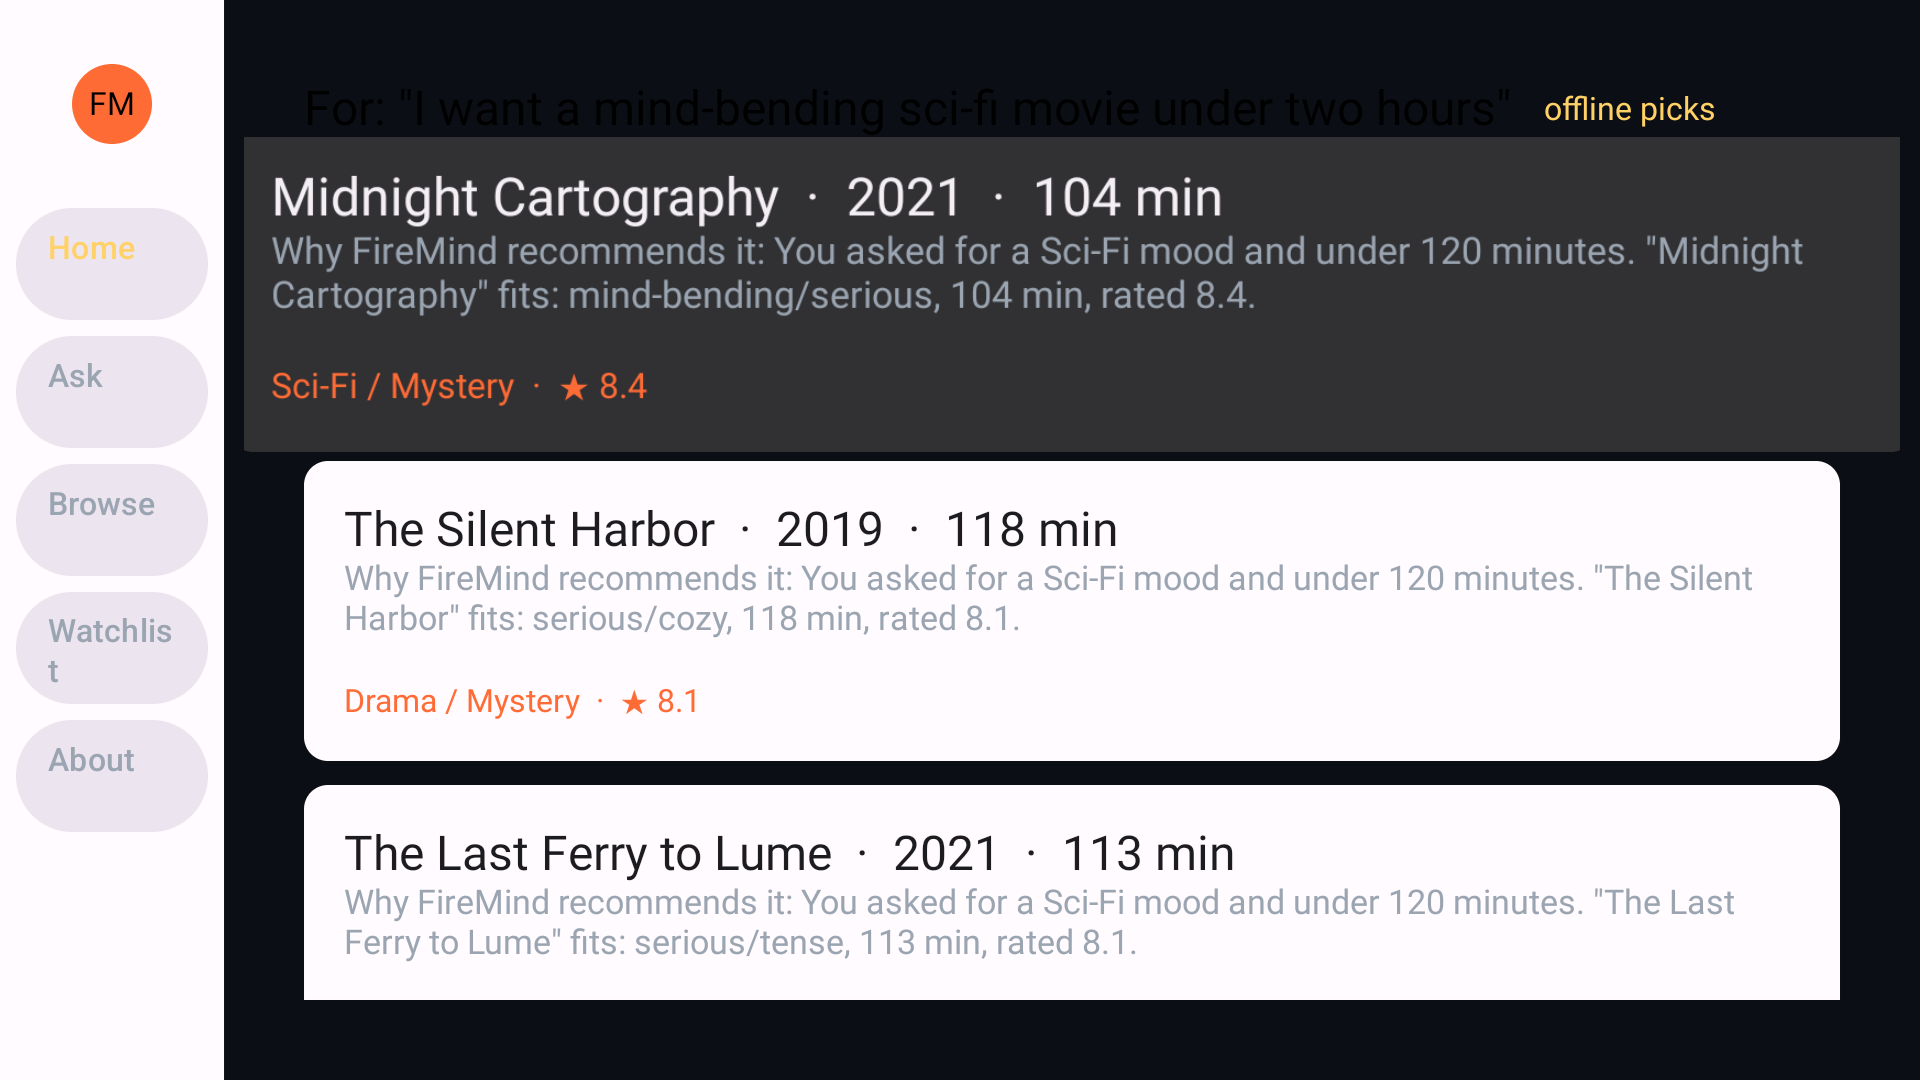
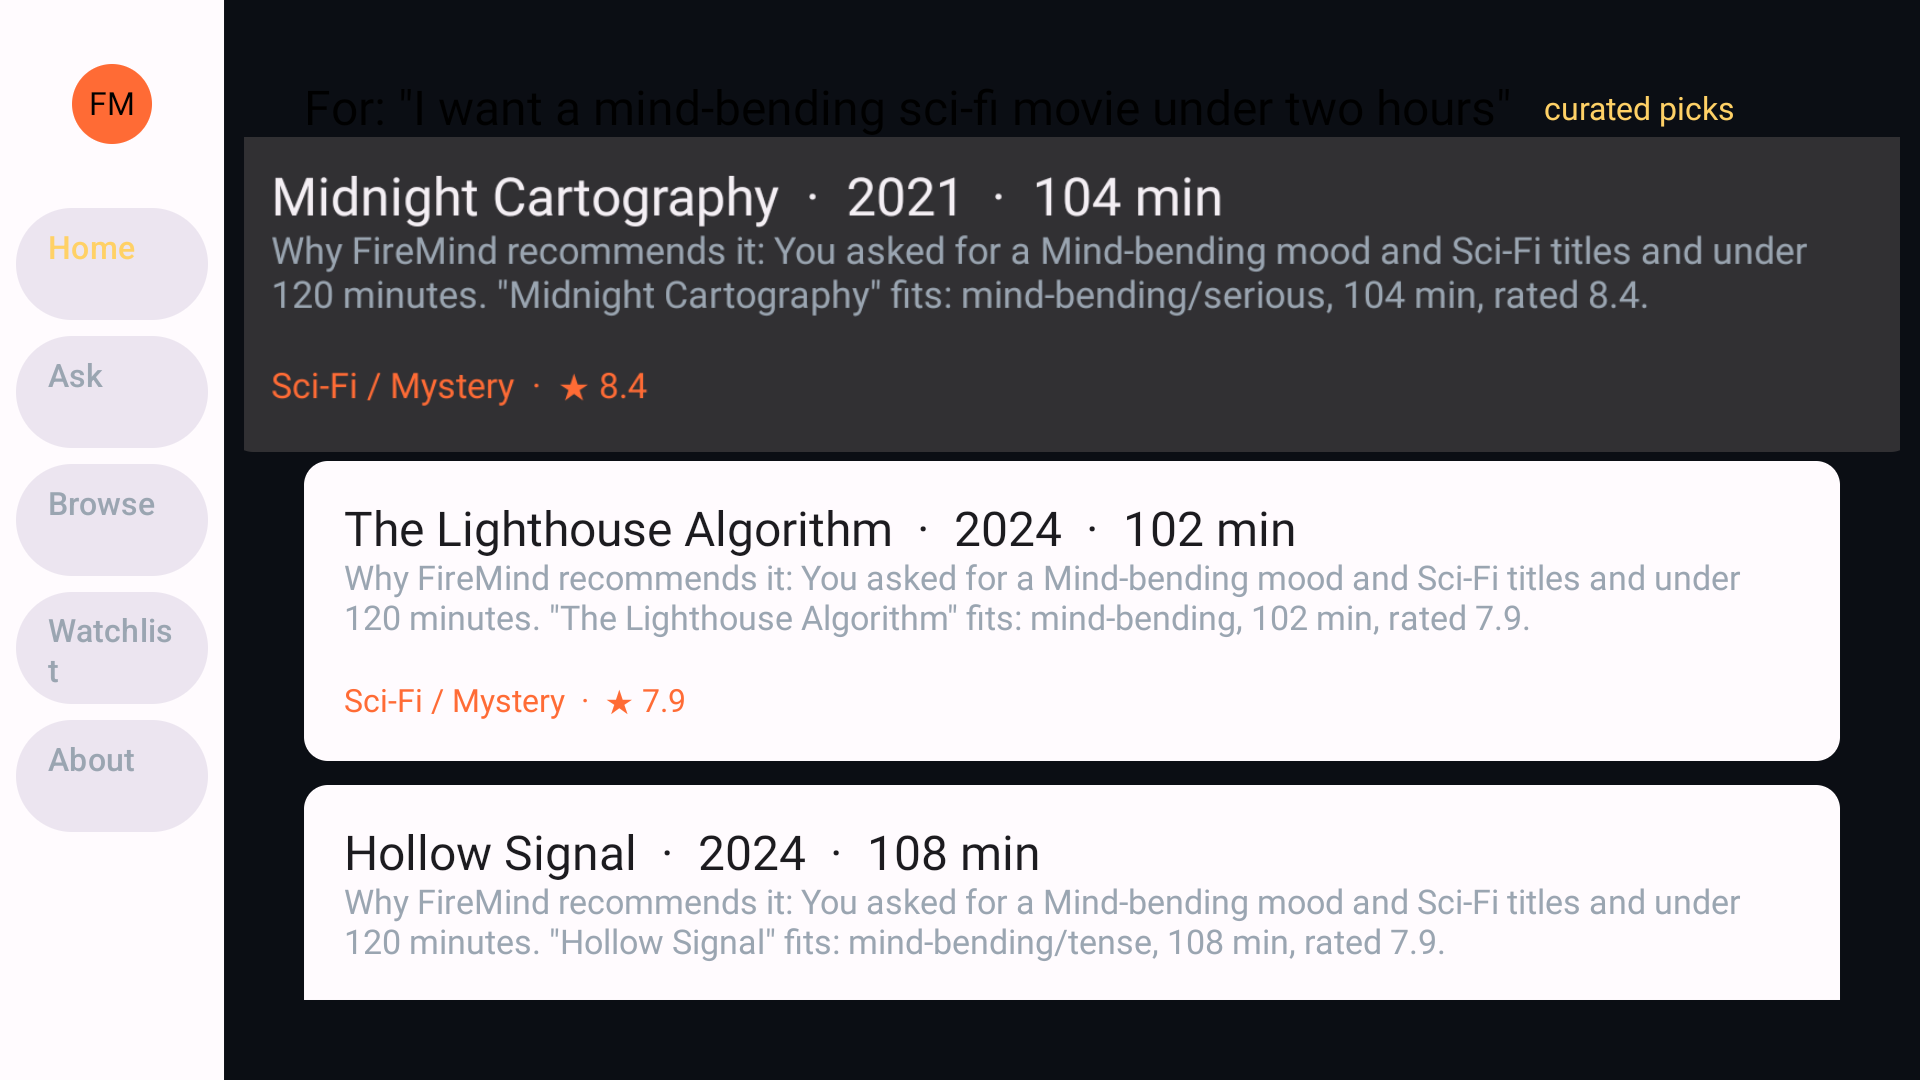
docs: document the test suites, genre intent, and the defect tests found
README gains a Tests section with the real commands, the verification
matrix now records 32 app tests + 21 backend tests, the mood/genre parity
check, and on-device confirmation that the Sci-Fi and Family chips
constrain results. ARCHITECTURE describes the full intent-parsing
contract (moods, genres, runtime caps, audience) and the chip invariant
test. FRICTION_LOG F17 records the chip/genre defect that only surfaced
once tests existed, including the silently-wrong-answer failure mode.
Results screenshot re-captured to match current behavior.

🤖 Generated with Codebuff

diff --git a/docs/FRICTION_LOG.md b/docs/FRICTION_LOG.md
@@ -218,13 +218,29 @@ happened and cost time — nothing here is hypothetical or fabricated.
 
 ---
 
+## F17 — A chip that promised Sci-Fi delivered no Sci-Fi (found by writing tests)
+
+- **Date:** 2026-09-16
+- **Tool:** FireMind app + backend (own code) — found while adding unit tests
+- **Task:** Write app-side tests for the deterministic engine, matching the backend suite
+- **Expected:** The catalog's mood tags and the Home screen's mood chips describe the same thing
+- **Actual:** Writing an invariant test ("every chip resolves to a real catalog mood or genre") failed: the catalog has **8 moods** (Serious, Cozy, Funny, Whimsical, Mind-bending, Heartfelt, Exciting, Tense) and **9 genres**, but two of the seven chips — **"Family" and "Sci-Fi" — are genres, not moods**, and the engine had **no genre concept at all**. Tapping "Sci-Fi" returned the top-rated titles regardless of genre. Separately, the mood-synonym tables in the app and backend had drifted: the app was missing `sci-fi`, `space`, `clever`, `scary`, `animated` and others, so the same sentence produced different results depending on whether the AI backend or the on-device engine answered.
+- **Error:** No runtime error at all. The engine simply matched a nonexistent mood tag (yielding zero mood matches) and fell through to "sort by rating", which looks plausible on screen — a silently wrong answer, not a crash.
+- **Root cause:** The mood chips were written as UI labels rather than as references to real catalog tags, and the recommendation engine ranked only on `moods`, never on `genres`. Nothing tested the chip → data contract, so the gap was invisible.
+- **Impact:** A core feature was quietly degraded: a viewer asking for sci-fi got a drama. The demo query "mind-bending sci-fi under two hours" returned one non-sci-fi, non-mind-bending title (a Drama/Mystery).
+- **Workaround / fix:** Added first-class genre intent to both engines (`parseGenre` + genre synonyms), restricted mood matching to tags that actually exist in the catalog, removed the dead `kids`/`children`/`animated` → mood mappings in favour of the audience filter and the Family genre, used genre as a ranking tiebreaker after mood, named the detected genre in the reason string, and made the tables identical in both languages. The demo query now returns three titles that each match mood, genre and runtime.
+- **Actionable recommendation:** Derive UI filter labels from the data instead of hand-writing them, and add a "filter option resolves to real data" invariant test — it is a two-line test that caught a user-visible recommendation defect that compile-checking, manual clicking, and even the original backend suite had all missed.
+
+---
+
 ## Summary
 
-Sixteen real obstacles, of three kinds:
+Seventeen real obstacles, of three kinds:
 
 1. **Tooling/argument-handling traps** (F1, F2, F3, F9, F10): all silent or misleading failures — wrong paths, exit code `0` after installing nothing, servers bound to the wrong port.
 2. **Version/compatibility walls** (F5, F6, F7, F11): legitimate metadata-driven pinning work, with error messages that pointed at Kotlin/Java symptoms rather than the dependency or typing cause.
 3. **Defects only a real run could reveal** (F8, F12, F13, F14): an install-time crash, a silently ignored user constraint, a broken D-pad path, and background processes dying with the shell. None of these would have been caught by compiling, and the runtime query bug (F12) would have shipped in a "working" build.
 4. **Verification-tooling quirks** (F15, F16): assertion-unfriendly dump ordering and a release-build warning flood. Neither broke anything, but both made "is this actually working?" harder to answer than it should be.
+5. **A defect found only by writing tests** (F17): two Home-screen chips referenced genres that the engine did not understand, so "Sci-Fi" returned dramas. Like F12 and F13 it was invisible to the compiler — but unlike those, it surfaced from an invariant test rather than from manual use.
 
 Every entry above was fixed and re-verified before moving on. Current state: 16/16 backend tests passing, a full D-pad journey confirmed on the emulator, and both debug and minified release builds launched successfully on the TV emulator.

diff --git a/README.md b/README.md
@@ -70,7 +70,7 @@ See [docs/ARCHITECTURE.md](docs/ARCHITECTURE.md) and
 | Build | Gradle 8.14.5, Android Gradle Plugin 8.13.2, compileSdk 36, minSdk 23 |
 | Backend | Node.js ≥ 20, zero npm dependencies, stdlib `http` |
 | AI | Amazon Bedrock Converse API (SigV4 implemented natively, no AWS SDK) |
-| Tests | Node built-in test runner — 16 tests (backend); adb/uiautomator-driven D-pad and screen verification (app) |
+| Tests | 53 automated tests — 21 backend (Node built-in runner) + 32 app unit tests (JUnit, no device needed) — plus adb/uiautomator-driven D-pad and screen verification |
 
 ## Requirements
 
@@ -182,6 +182,30 @@ FIREMIND_BACKEND_URL="http://192.168.1.20:8080" ./gradlew assembleDebug
 Cleartext HTTP is permitted **only** for loopback/`10.0.2.2` dev hosts
 via the network security config; production should serve HTTPS.
 
+## Tests
+
+Both suites run without an emulator or a TV attached.
+
+App unit tests (32 tests — engine intent parsing, ranking, reason strings,
+similar titles, catalog integrity):
+
+```bash
+./gradlew testDebugUnitTest
+# HTML report: app/build/reports/tests/testDebugUnitTest/index.html
+```
+
+Backend tests (21 tests — engine, HTTP contract, validation, error paths):
+
+```bash
+cd backend && npm test
+```
+
+Because the app's offline engine and the backend's fallback engine
+implement the same behavior in two languages, both suites assert the same
+expectations (spelled-out runtimes, mood and genre intent, audience
+filtering, reason wording). Changing one engine means mirroring the change
+and its tests in the other.
+
 ## Demo
 
 Demo video: *(to be added — recording checklist and shot list in
@@ -227,7 +251,10 @@ emulator, not inferred from source:
 | Runtime constraint | "under two hours" → results of 104 / 118 / 113 min (no over-cap leak) |
 | Watchlist persistence | Survives `force-stop` and relaunch; DataStore file on disk |
 | Device → backend HTTP | About screen reports "backend online" via `10.0.2.2:8080` |
-| Backend | 16/16 tests pass (`npm test`), live health + recommend verified over HTTP |
+| Backend | 21/21 tests pass (`npm test`), live health + recommend verified over HTTP |
+| App unit tests | 32/32 pass (`./gradlew testDebugUnitTest`) — engine intent parsing, ranking, reason strings, similar titles, catalog integrity |
+| Engine parity | Mood and genre synonym tables verified identical between the Kotlin and JavaScript engines |
+| Genre chips | Tapping **Sci-Fi** returns only sci-fi titles; tapping **Family** returns only family-friendly titles (verified on device against the catalog data) |
 | Release-build catalog parsing | Home rail and Browse grid populate from the minified build (kotlinx-serialization survives R8) |
 
 
@@ -281,10 +308,12 @@ Stated plainly, so nothing here is overclaimed:
    local key to verify the minified build actually runs; that key lives in
    ignored `build/` output and is not part of the project. Real
    distribution needs your own signing key.
-4. **No Android-side unit tests.** Test coverage lives in the backend
-   (16 tests: engine, intent parsing, HTTP contract, error paths). The
-   app's local fallback engine mirrors that logic but is verified
-   manually.
+4. **The two recommendation engines are kept in sync by hand.** The app
+   (Kotlin) and backend (JavaScript) implement the same intent parsing and
+   ranking, and both suites assert the same expectations (32 app tests,
+   21 backend tests), but nothing enforces the parity automatically —
+   changing one engine requires mirroring the change in the other. The
+   tables were verified identical when this was written.
 5. **No demo video yet** — the shot list is ready in `docs/DEMO_SCRIPT.md`;
    recording is a manual step.
 6. **Single-locale (English) strings**, and the catalog is a fixed set of

diff --git a/docs/ARCHITECTURE.md b/docs/ARCHITECTURE.md
@@ -75,10 +75,32 @@ Three independent failure points, each with a defined fallback:
 | AI call fails, times out, or violates the JSON contract | Backend logs the reason and returns the deterministic fallback in the same response shape |
 
 The local engine and the backend engine implement the same intent parsing
-(mood synonyms, digit and word-number runtime caps, family filtering) and
-the same ranking rules, so the experience is consistent regardless of
-which path serves the request. Both are covered by tests, and the app-side
-copy is deliberately small and dependency-free.
+and the same ranking rules, so the experience is consistent regardless of
+which path serves the request:
+
+- **Moods** — curated synonyms (`relaxing` → `Cozy`, `hilarious` →
+  `Funny`) then direct matches against mood tags that exist in the catalog
+- **Genres** — curated synonyms (`space`, `scifi` → `Sci-Fi`;
+  `romantic` → `Romance`) then direct matches against real genre tags
+- **Runtime cap** — digits and spelled-out numbers (`under 2 hours`,
+  `under two hours` → 120 minutes)
+- **Audience** — family-friendly filtering from an explicit flag or
+  audience wording (`family`, `kids`, `children`, `animated`)
+- **Ranking** — mood match, then genre match, then rating; ties keep
+  catalog order, so results are deterministic
+
+Intent parsing deliberately matches only against tags that exist in the
+catalog, so a chip or phrase can never "match" a tag that no title
+carries. The UI chips are covered by an invariant test asserting that each
+one resolves to a real mood or genre — that test caught two chips
+(`Sci-Fi`, `Family`) that previously constrained nothing because the
+engine had no genre concept (see FRICTION_LOG.md F17).
+
+Both engines are covered by mirrored test suites (32 app tests, 21
+backend tests), and the app-side copy is deliberately small and
+dependency-free. Keeping them in step is a manual discipline: changing
+one means changing the other, and the synonym tables were verified
+identical when this document was written.
 
 ## UI and focus model (TV-first)
 
